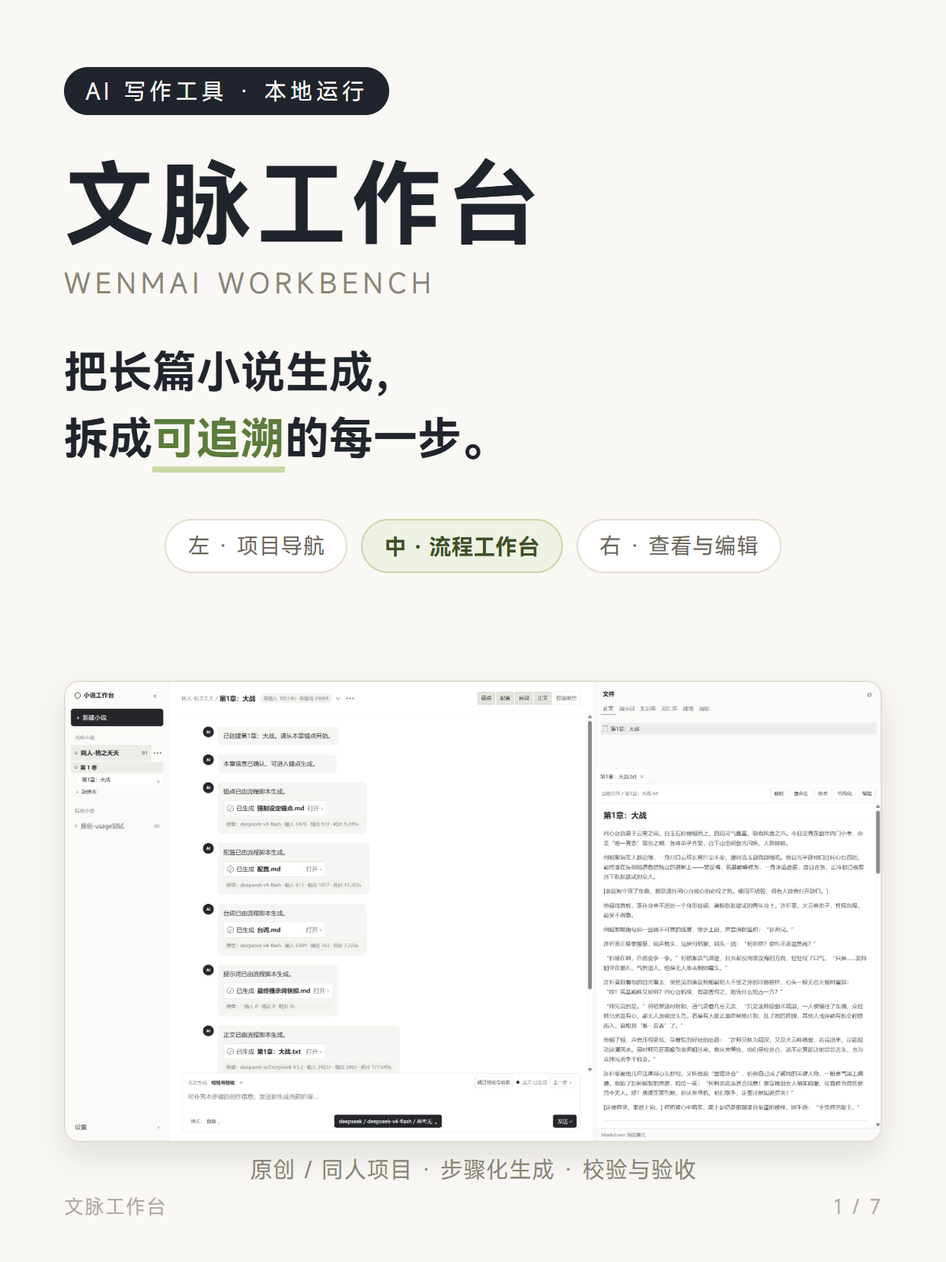
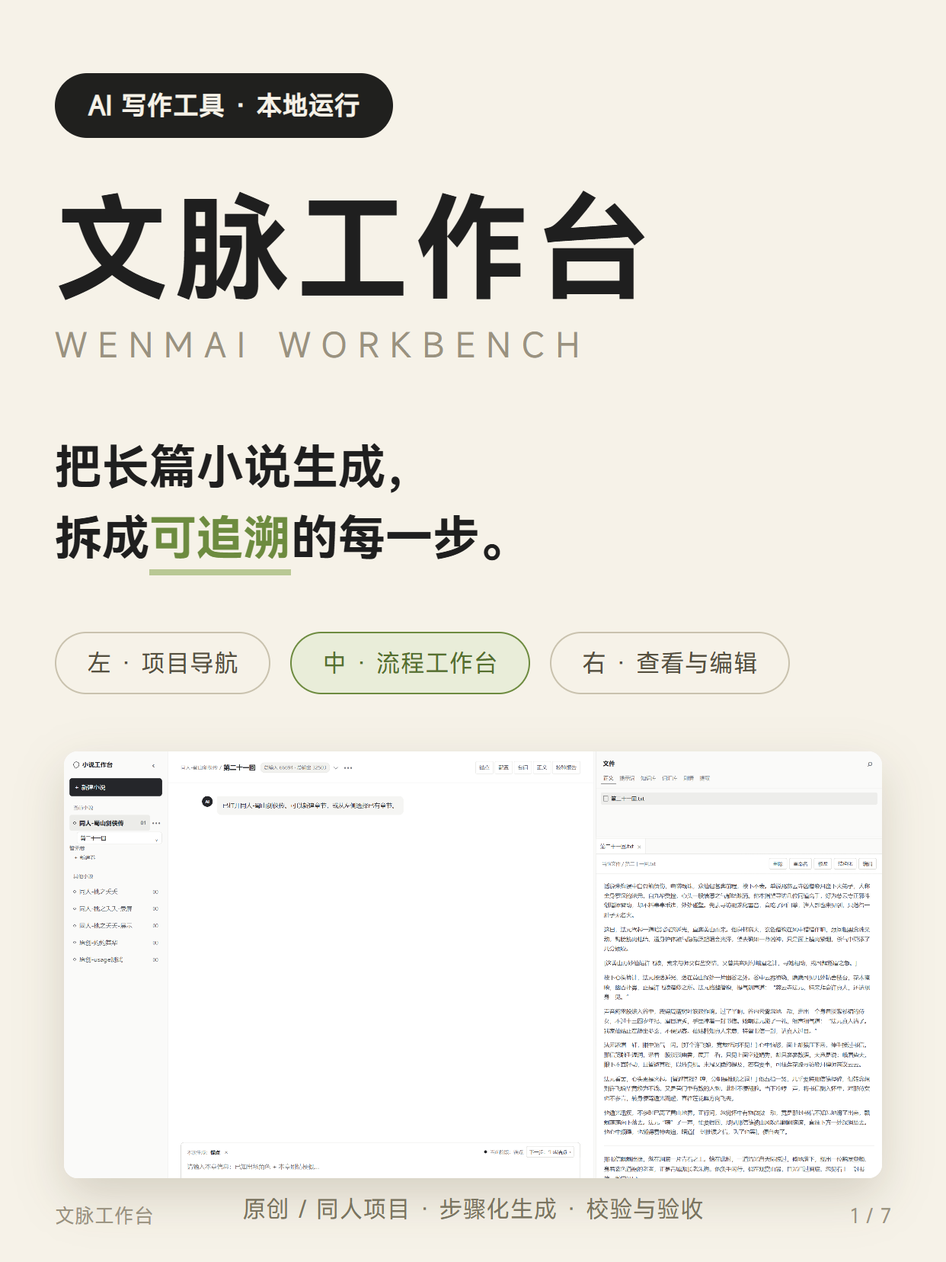
feat: 测试夹具改为蜀山片段；小红书卡片更新为蜀山演示截图
- 验证工作台验收.py：《逆鳞》资料整体替换为《蜀山剑侠传》同人夹具（角色/初始化/章节输入与全流程断言）
- 文风评分 bench 脚本：中性化旧角色名引用
- 小红书卡片 卡1/4/5：嵌入图更换为蜀山第二十一回真实产物截图，附卡片源码 _cards.html 与渲染脚本
- 删除旧版逆鳞验收报告

diff --git a/portfolio/小红书卡片/_cards.html b/portfolio/小红书卡片/_cards.html
@@ -1,0 +1,78 @@
+<!DOCTYPE html>
+<html lang="zh-CN">
+<head>
+<meta charset="UTF-8">
+<style>
+  @font-face { font-family: 'HSans'; src: url('file:///D:/求职/作品集/素材/fonts/HarmonyOS-Sans-SC-Bold.ttf'); font-weight: 700; }
+  @font-face { font-family: 'MiSans'; src: url('file:///D:/求职/作品集/素材/fonts/MiSans-Regular.ttf'); font-weight: 400; }
+  * { margin: 0; padding: 0; box-sizing: border-box; }
+  body { background: #888; font-family: 'MiSans', sans-serif; }
+  .card {
+    width: 1242px; height: 1656px; background: #F6F2E8; position: relative;
+    overflow: hidden; margin: 20px auto; color: #1F1F1F;
+  }
+  .footer { position: absolute; bottom: 44px; left: 72px; right: 72px; display: flex; justify-content: space-between; font-size: 26px; color: #9A927F; }
+  .pill-dark { display: inline-block; background: #20201E; color: #F6F2E8; border-radius: 999px; padding: 20px 44px; font-size: 34px; font-weight: 700; }
+  .green-bar { display: inline-block; width: 16px; height: 66px; background: #6D8B3F; border-radius: 8px; vertical-align: -6px; }
+  .h-title { font-family: 'HSans', sans-serif; font-size: 78px; font-weight: 700; letter-spacing: 2px; }
+  .h-sub { font-size: 32px; color: #8F8874; margin-top: 18px; }
+  .shot { border-radius: 18px; box-shadow: 0 24px 60px rgba(60,50,20,.18); object-fit: cover; object-position: left top; background: #fff; }
+  .cap { font-size: 31px; color: #7A7460; text-align: center; }
+  .cap b { color: #4A4436; font-weight: 400; }
+</style>
+</head>
+<body>
+
+<!-- ======================= 卡 1：封面 ======================= -->
+<div class="card" id="card1">
+  <div style="padding: 96px 72px 0;">
+    <span class="pill-dark">AI 写作工具 · 本地运行</span>
+    <div style="font-family:'HSans',sans-serif; font-size: 150px; font-weight: 700; letter-spacing: 8px; margin-top: 66px; line-height: 1;">文脉工作台</div>
+    <div style="font-size: 44px; letter-spacing: 14px; color: #9A927F; margin-top: 26px;">WENMAI WORKBENCH</div>
+    <div style="font-family:'HSans',sans-serif; font-size: 62px; font-weight: 700; line-height: 1.5; margin-top: 84px;">
+      把长篇小说生成，<br>拆成<span style="color:#6D8B3F; border-bottom: 8px solid #B9C894; padding-bottom: 2px;">可追溯</span>的每一步。
+    </div>
+    <div style="margin-top: 78px; display: flex; gap: 26px;">
+      <span style="border: 2px solid #C9C2AE; border-radius: 999px; padding: 18px 40px; font-size: 32px; color: #55503F;">左 · 项目导航</span>
+      <span style="border: 2px solid #6D8B3F; background: #E9EDD9; border-radius: 999px; padding: 18px 40px; font-size: 32px; color: #55702F;">中 · 流程工作台</span>
+      <span style="border: 2px solid #C9C2AE; border-radius: 999px; padding: 18px 40px; font-size: 32px; color: #55503F;">右 · 查看与编辑</span>
+    </div>
+  </div>
+  <img class="shot" src="file:///D:/求职/项目/wenmai-workbench/_shots/xhs/cover-app.png"
+       style="position:absolute; left: 84px; right: 84px; top: 986px; width: 1074px; height: 560px;">
+  <div class="cap" style="position:absolute; left:0; right:0; top: 1566px;">原创 / 同人项目 · 步骤化生成 · 校验与验收</div>
+  <div class="footer"><span>文脉工作台</span><span>1 / 7</span></div>
+</div>
+
+<!-- ======================= 卡 4：界面预览 · 流程 ======================= -->
+<div class="card" id="card4">
+  <div style="padding: 100px 72px 0;">
+    <span class="green-bar"></span><span class="h-title">界面预览 · 流程</span>
+    <div class="h-sub">锚点 → 配置 → 台词 → 提示词快照 → 正文</div>
+  </div>
+  <img class="shot" src="file:///D:/求职/项目/wenmai-workbench/_shots/xhs/anchor.png"
+       style="position:absolute; left: 96px; top: 320px; width: 1050px; height: 566px;">
+  <div class="cap" style="position:absolute; left:0; right:0; top: 916px;">章节流程：每一步产物<b>落盘</b>，随时回看与撤回</div>
+  <img class="shot" src="file:///D:/求职/项目/wenmai-workbench/_shots/xhs/new-project.png"
+       style="position:absolute; left: 96px; top: 1000px; width: 1050px; height: 530px;">
+  <div class="cap" style="position:absolute; left:0; right:0; top: 1552px;">新建小说：<b>原创 / 同人</b>两种类型，本地文件夹即项目</div>
+  <div class="footer"><span>文脉工作台</span><span>4 / 7</span></div>
+</div>
+
+<!-- ======================= 卡 5：界面预览 · 资产与校验 ======================= -->
+<div class="card" id="card5">
+  <div style="padding: 100px 72px 0;">
+    <span class="green-bar"></span><span class="h-title">界面预览 · 资产与校验</span>
+    <div class="h-sub">设定可检索，质量有验收</div>
+  </div>
+  <img class="shot" src="file:///D:/求职/项目/wenmai-workbench/_shots/xhs/worldview.png"
+       style="position:absolute; left: 96px; top: 320px; width: 1050px; height: 566px;">
+  <div class="cap" style="position:absolute; left:0; right:0; top: 916px;">知识库：世界观、角色卡、剧情集中管理，随取随用</div>
+  <img class="shot" src="file:///D:/求职/项目/wenmai-workbench/_shots/xhs/validate.png"
+       style="position:absolute; left: 96px; top: 1000px; width: 1050px; height: 530px;">
+  <div class="cap" style="position:absolute; left:0; right:0; top: 1552px;">校验报告：锚点落实 / 设定一致 / 剧情连贯 / 文风表达逐项通过</div>
+  <div class="footer"><span>文脉工作台</span><span>5 / 7</span></div>
+</div>
+
+</body>
+</html>

diff --git a/_take_shots.js b/_take_shots.js
@@ -1,0 +1,57 @@
+const path = require('path');
+let chromium;
+try { chromium = require('D:/求职/简历/工具/node_modules/playwright').chromium; }
+catch { chromium = require('playwright').chromium; }
+
+const OUT = 'D:/求职/项目/wenmai-workbench/_shots';
+const fs = require('fs');
+fs.mkdirSync(OUT, { recursive: true });
+
+(async () => {
+  let browser;
+  try { browser = await chromium.launch({ channel: 'chrome', headless: true }); }
+  catch { browser = await chromium.launch({ headless: true }); }
+  const page = await browser.newPage({ viewport: { width: 1920, height: 1080 } });
+  await page.goto('http://127.0.0.1:4173', { waitUntil: 'load', timeout: 30000 });
+  await page.waitForTimeout(1500);
+
+  // 打开项目
+  await page.click('text=同人-蜀山剑侠传');
+  await page.waitForTimeout(2500);
+  await page.screenshot({ path: path.join(OUT, '01-工作流总览.png') });
+  console.log('shot 01 done');
+
+  // 提示词 tab → 校验报告
+  try {
+    await page.click('text=提示词', { timeout: 3000 });
+    await page.waitForTimeout(800);
+    await page.screenshot({ path: path.join(OUT, '02-提示词文件列表.png') });
+    await page.click('text=校验报告.md', { timeout: 5000 });
+    await page.waitForTimeout(1200);
+    await page.screenshot({ path: path.join(OUT, '03-校验报告.png') });
+    console.log('shot 03 done');
+  } catch (e) { console.log('校验报告截图失败:', e.message.slice(0, 120)); }
+
+  // 正文 tab → 第二十一回
+  try {
+    await page.click('text=正文', { timeout: 3000 });
+    await page.waitForTimeout(800);
+    await page.click('text=第二十一回.txt', { timeout: 5000 });
+    await page.waitForTimeout(1200);
+    await page.screenshot({ path: path.join(OUT, '04-正文.png') });
+    console.log('shot 04 done');
+  } catch (e) { console.log('正文截图失败:', e.message.slice(0, 120)); }
+
+  // 知识库 tab → 角色名单
+  try {
+    await page.click('text=知识库', { timeout: 3000 });
+    await page.waitForTimeout(800);
+    await page.click('text=角色名单.md', { timeout: 5000 });
+    await page.waitForTimeout(1200);
+    await page.screenshot({ path: path.join(OUT, '05-角色名单.png') });
+    console.log('shot 05 done');
+  } catch (e) { console.log('角色名单截图失败:', e.message.slice(0, 120)); }
+
+  await browser.close();
+  console.log('all done');
+})();

diff --git a/_take_xhs_shots.js b/_take_xhs_shots.js
@@ -1,0 +1,55 @@
+const path = require('path');
+const fs = require('fs');
+const { chromium } = require('D:/求职/简历/工具/node_modules/playwright');
+
+const OUT = 'D:/求职/项目/wenmai-workbench/_shots/xhs';
+fs.mkdirSync(OUT, { recursive: true });
+
+(async () => {
+  let browser;
+  try { browser = await chromium.launch({ channel: 'chrome', headless: true }); }
+  catch { browser = await chromium.launch({ headless: true }); }
+  const page = await browser.newPage({ viewport: { width: 1920, height: 1080 }, deviceScaleFactor: 1.5 });
+  await page.goto('http://127.0.0.1:4173', { waitUntil: 'load', timeout: 30000 });
+  await page.waitForTimeout(1500);
+  await page.click('text=同人-蜀山剑侠传');
+  await page.waitForTimeout(2000);
+
+  async function shotTab(tab, file, out, extra = 0) {
+    try {
+      await page.click(`text=${tab}`, { timeout: 3000 });
+      await page.waitForTimeout(600);
+      await page.click(`text=${file}`, { timeout: 5000 });
+      await page.waitForTimeout(1200 + extra);
+      await page.screenshot({ path: path.join(OUT, out) });
+      console.log('done', out);
+    } catch (e) { console.log('skip', out, e.message.slice(0, 80)); }
+  }
+
+  // 覆盖主视觉：正文打开 + 侧栏章节
+  await shotTab('正文', '第二十一回.txt', 'cover-app.png', 500);
+  // 提示词：锚点 / 台词 / 校验报告
+  await shotTab('提示词', '强制设定锚点.md', 'anchor.png');
+  await shotTab('提示词', '台词.md', 'dialogue.png');
+  await shotTab('提示词', '校验报告.md', 'validate.png');
+  // 知识库：角色名单 / 世界观
+  await shotTab('知识库', '角色名单.md', 'roster.png');
+  await shotTab('知识库', '世界观.md', 'worldview.png');
+  // 词汇库：专属词库
+  await shotTab('词汇库', '专属词库.md', 'vocab.png');
+  // 提取：原文风格
+  await shotTab('提取', '原文风格.md', 'style.png');
+
+  // 新建小说弹窗
+  try {
+    await page.click('text=新建小说', { timeout: 3000 });
+    await page.waitForTimeout(800);
+    await page.screenshot({ path: path.join(OUT, 'new-project.png') });
+    console.log('done new-project.png');
+    await page.keyboard.press('Escape');
+    await page.waitForTimeout(500);
+  } catch (e) { console.log('skip new-project', e.message.slice(0, 80)); }
+
+  await browser.close();
+  console.log('all done');
+})();

diff --git a/工作流脚本/文风评分/scripts/bench/compare-custom.ts b/工作流脚本/文风评分/scripts/bench/compare-custom.ts
@@ -1,13 +1,13 @@
 /**
  * 临时对比脚本：用 InkFlow 自己的 Slop 文风检测器，
- * 对《超凡都市407》第384章 与 白釉生成文本 分别打分。
+ * 对《超凡都市407》第384章 与 待比对的生成文本 分别打分。
  */
 import fs from "node:fs";
 import { fullSlopScan, summarizeReport } from "../../src/services/checker/slop-detector";
 import type { SlopReport } from "../../src/services/checker/slop-rules";
 
 const SRC = "D:\\novel apk\\训练文本\\超凡都市407.txt";
-const GEN = "D:\\novel apk\\训练文本\\测试生成_白釉_第1章大婚_风格版_v3_扩写.txt";
+const GEN = "D:\\novel apk\\训练文本\\你的生成文本.txt";
 const OUT = "D:\\novel apk\\训练文本\\Inkflow文风检测_原著384_vs_生成.txt";
 
 const src = fs.readFileSync(SRC, "utf-8");
@@ -49,7 +49,7 @@ function make(report: SlopReport) {
 const result = {
   engine: "InkFlow fullSlopScan (7层 Slop 检测, 0-10分, 越高越好)",
   original: { name: "超凡都市407_第384章", chars: chap.length, report: make(fullSlopScan(chap)) },
-  generated: { name: "白釉_第1章_风格版v3扩写", chars: gen.length, report: make(fullSlopScan(gen)) },
+  generated: { name: "生成文本_风格版v3扩写", chars: gen.length, report: make(fullSlopScan(gen)) },
 };
 
 fs.writeFileSync(OUT, JSON.stringify(result, null, 2), "utf-8");

diff --git a/工作流脚本/文风评分/scripts/bench/compare-multi.ts b/工作流脚本/文风评分/scripts/bench/compare-multi.ts
@@ -1,12 +1,12 @@
 /**
- * 临时对比脚本：用 InkFlow Slop 检测器扫描多个原著章节 + 白釉生成文本。
+ * 临时对比脚本：用 InkFlow Slop 检测器扫描多个原著章节 + 待比对的生成文本。
  */
 import fs from "node:fs";
 import { fullSlopScan, summarizeReport } from "../../src/services/checker/slop-detector";
 import type { SlopReport } from "../../src/services/checker/slop-rules";
 
 const SRC = "D:\\novel apk\\训练文本\\超凡都市407.txt";
-const GEN = "D:\\novel apk\\训练文本\\测试生成_白釉_第1章大婚_风格版_v3_扩写.txt";
+const GEN = "D:\\novel apk\\训练文本\\你的生成文本.txt";
 const OUT = "D:\\novel apk\\训练文本\\Inkflow文风检测_多章对比.txt";
 
 const src = fs.readFileSync(SRC, "utf-8");
@@ -73,7 +73,7 @@ function stats(nums: number[]) {
 const result = {
   engine: "InkFlow fullSlopScan（0-10，越高越干净）",
   generated: {
-    name: "白釉_第1章_风格版v3扩写",
+    name: "生成文本_风格版v3扩写",
     chars: gen.length,
     ...genSummary,
   },

diff --git a/portfolio/小红书卡片/_render_cards.js b/portfolio/小红书卡片/_render_cards.js
@@ -1,0 +1,15 @@
+const path = require('path');
+const { chromium } = require('D:/求职/简历/工具/node_modules/playwright');
+
+(async () => {
+  const browser = await chromium.launch({ channel: 'chrome', headless: true });
+  const page = await browser.newPage({ viewport: { width: 1400, height: 1800 }, deviceScaleFactor: 1 });
+  await page.goto('file:///D:/求职/项目/wenmai-workbench/portfolio/小红书卡片/_cards.html', { waitUntil: 'load', timeout: 30000 });
+  await page.waitForTimeout(2500); // 等字体与图片
+  for (const id of ['card1', 'card4', 'card5']) {
+    const el = await page.$('#' + id);
+    await el.screenshot({ path: `D:/求职/项目/wenmai-workbench/portfolio/小红书卡片/新-${id}.png` });
+    console.log('rendered', id);
+  }
+  await browser.close();
+})();

diff --git a/工作流脚本/验证工作台验收.py b/工作流脚本/验证工作台验收.py
@@ -11,8 +11,8 @@
     python 验证工作台验收.py
     python 验证工作台验收.py --live-model
 
---live-model 会用本文件内的《逆鳞》测试资料真实调用已配置的模型，产生并
-删除两个“*-验收-逆鳞-<随机串>”临时项目。仅在需要验收真实 API、模型输出和
+--live-model 会用本文件内的《蜀山》测试资料真实调用已配置的模型，产生并
+删除两个“*-验收-蜀山-<随机串>”临时项目。仅在需要验收真实 API、模型输出和
 全流程产物时使用。
 
 尚未验收：校验“通过”后的资产增量更新。当前前端只有提示文案，后端尚无对应
@@ -40,19 +40,19 @@ APP = WEB / "app.js"
 SERVER = WEB / "server.mjs"
 BASE_URL = "http://127.0.0.1:4173"
 
-SOURCE_TEXT = """白釉：女主；狐族千金，当年逃婚，后为正道仙子，今为救子回妖族取真龙之血；假身份狐族流落孤女、少年侍女近卫
-敖玦：少年；妖皇血脉，试炼获胜者；称白釉“釉儿”；以本命逆鳞与白釉交易半份精血
-敖苍：妖皇（蛟族）
-敖曜：大皇子（嫡长子），发动政变
-谢玄珩：正道魁首，白釉丈夫；与白釉原定若少年不肯交血则强取，今日现身
-鼋戎：反叛大臣，大势已去后倒戈擒下谢玄珩将功赎罪
-归藏：妖皇忠直老臣，趁机劝降叛臣
+SOURCE_TEXT = """英琼：女主；前明忠良李宁之女，孝行感天，拜入峨眉仙师门下学剑
+李宁：英琼之父；前明忠良之后，携女避祸入蜀，与周淳结伴隐居
+周淳：侠士；李宁故友，同隐蜀中，后亦归入仙门
+赵燕儿：少年；别母从师，拜入峨眉门下
+周轻云：峨眉女弟子；奉命在辟邪村学道，兼司传讯
+法元：金身罗汉；慈云寺请来的异派凶僧，四处搬兵欲与峨眉斗剑
+朱梅：青城派长老；道法高深，与峨眉交好
 """
 
-INITIALIZATION = """女主白釉表面是闻名天下的正道仙子，实为当年逃婚的狐族千金。她嫁给正道魁首谢玄珩后，儿子被害留下隐疾，十六年未解；唯一续命希望是真龙之血，只有妖皇敖苍能赏赐。白釉回妖族途中救下遭暗杀的妖皇血脉少年敖玦，假扮他的狐族流落孤女侍女近卫。二人约定：白釉助他赢下妖皇试炼，事成取半份真龙精血；敖玦以本命逆鳞抵押。二人九死一生赢下试炼，妖皇要求二人成婚，大婚当天赐下真龙精血。
-角色：白釉是狐族千金、正道仙子、谢玄珩之妻、敖玦侍女近卫；敖玦是试炼获胜者、交易同盟；敖苍是蛟族妖皇；敖曜将发动政变；鼋戎会倒戈；归藏劝降叛臣。真龙精血是白釉救子关键，本命逆鳞仍在白釉手中，嫁衣是大婚当天所穿。"""
+INITIALIZATION = """前明忠良之后李宁携女英琼避祸入蜀，与侠士周淳结伴隐居。英琼孝行感天，机缘拜入峨眉仙师门下习剑；赵燕儿别母从师，周轻云在辟邪村学道兼司传讯。峨眉群仙广收少年弟子，与慈云寺凶僧一派冲突渐深：金身罗汉法元四处搬兵，扬言要与峨眉斗剑，正邪大战一触即发。
+角色：英琼是李宁之女、峨眉门下少年剑仙；周淳是李宁故友、侠士；赵燕儿与周轻云同属峨眉门下；法元是慈云寺请来的异派凶僧，正邪不两立；朱梅是青城派长老，与峨眉交好。"""
 
-CHAPTER_INPUT = """大婚当天，披着嫁衣的白釉陪敖玦领赏，妖皇敖苍赐下真龙精血。敖曜伙同大臣逼宫，白釉救下危在旦夕的敖玦；谢玄珩现身，明确要取敖苍之命。敖苍认定叛军勾结正道，与谢玄珩缠斗；归藏劝降，鼋戎在局势逆转时倒戈。白釉安置敖玦后苦战。敖玦喝下整份真龙精血，实力大增，击杀敖曜；谢玄珩逃走时被敖苍和鼋戎擒住。结尾白釉捏着敖玦的逆鳞，震惊他没有留下约定的半份精血，救子计划落空。"""
+CHAPTER_INPUT = """英琼辞别父亲李宁，随周淳入蜀山拜师，途中夜宿古庙，遇法元门下妖人拦路截杀试探；赵燕儿仗剑相助，二人合力击退妖人。周轻云奉命传讯：仙师已在山上等候，慈云寺之约渐近。法元现身冷笑立约，扬言斗剑之期已定。结尾英琼在庙后清泉边练剑，剑尖忽凝一道异光，周淳暗惊此女剑缘深厚。"""
 
 
 class Check:
@@ -124,9 +124,9 @@ def create_project(check: Check, kind: str, title: str) -> str:
 
 def upload_source(check: Check, project: str) -> None:
     content = base64.b64encode(SOURCE_TEXT.encode("utf-8")).decode("ascii")
-    status, payload = request("POST", "/api/upload", {"project": project, "name": "逆鳞原著.txt", "data": f"data:text/plain;base64,{content}"})
-    check.require(status == 201 and payload.get("path") == "原著/逆鳞原著.txt", "同人原著上传端点")
-    check.require("原著/逆鳞原著.txt" in flat_paths(project_tree(project)), "上传原著出现在项目树")
+    status, payload = request("POST", "/api/upload", {"project": project, "name": "蜀山原著.txt", "data": f"data:text/plain;base64,{content}"})
+    check.require(status == 201 and payload.get("path") == "原著/蜀山原著.txt", "同人原著上传端点")
+    check.require("原著/蜀山原著.txt" in flat_paths(project_tree(project)), "上传原著出现在项目树")
 
 
 def delete_project(check: Check, project: str) -> None:
@@ -141,42 +141,42 @@ def run_live_workflow(check: Check, project: str, fan: bool) -> None:
     def live_request(path: str, body: dict[str, Any]) -> tuple[int, dict[str, Any]]:
         return request("POST", path, body, timeout_seconds=660)
 
-    status, result = live_request("/api/project-brief/assess", {"project": project, "content": "白釉为救隐疾儿子回妖族，与少年敖玦交易真龙精血，在大婚政变中面临约定破裂。"})
+    status, result = live_request("/api/project-brief/assess", {"project": project, "content": "前明忠良李宁携女英琼入蜀避祸，英琼拜入峨眉学剑，法元搬兵欲斗剑，正邪大战一触即发。"})
     check.require(status == 200 and not result.get("missing"), f"模型判别小说资料（HTTP {status}，响应：{json.dumps(result, ensure_ascii=True)}）")
     material = "# 初始化资料\n\n" + INITIALIZATION + "\n"
     status, _ = request("PUT", "/api/file", {"project": project, "path": "运行记录/初始化资料.md", "content": material})
     check.require(status == 200, "保存初始化原始输入")
     tasks: list[tuple[str, dict[str, Any]]] = []
     if fan:
-        tasks += [(name, {"source": "逆鳞原著.txt"}) for name in ("text_stats", "word_frequency", "style", "positive_vocabulary", "exclusive_vocabulary")]
+        tasks += [(name, {"source": "蜀山原著.txt"}) for name in ("text_stats", "word_frequency", "style", "positive_vocabulary", "exclusive_vocabulary")]
     tasks += [
         ("compile_intro", {"summary": result["summary"], "tags": result["tags"]}),
-        ("generate_worldview", {"genre": "东方玄幻", "premise": "白釉为救子回妖族寻真龙精血"}),
-        ("compile_style", {"tone": "紧张克制、古风玄幻"}),
-        ("generate_character", {"name": "白釉", "identity": "狐族千金、正道仙子"}),
-        ("generate_character", {"name": "敖玦", "identity": "妖皇血脉少年"}),
-        ("compile_relation", {"character_a": "白釉", "character_b": "敖玦", "relationship": "真龙精血交易同盟"}),
-        ("compile_plot", {"kind": "book", "protagonist": "白釉", "mainline": "救子取血与逆鳞交易"}),
-        ("compile_volume", {"volume": "第1卷：逆鳞", "protagonist": "白釉", "mainline": "妖皇试炼至大婚政变"}),
+        ("generate_worldview", {"genre": "古典仙侠", "premise": "峨眉门下少年学剑，正邪斗剑将起"}),
+        ("compile_style", {"tone": "还珠楼主式古典仙侠，文白相间，瑰丽奇绝"}),
+        ("generate_character", {"name": "英琼", "identity": "李宁之女、峨眉门下少年剑仙"}),
+        ("generate_character", {"name": "赵燕儿", "identity": "别母从师的峨眉少年"}),
+        ("compile_relation", {"character_a": "英琼", "character_b": "赵燕儿", "relationship": "同门师兄妹，古庙并肩退敌"}),
+        ("compile_plot", {"kind": "book", "protagonist": "英琼", "mainline": "拜师学剑与慈云寺斗剑之约"}),
+        ("compile_volume", {"volume": "第1卷：峨眉学剑", "protagonist": "英琼", "mainline": "避祸入蜀至慈云寺斗剑之约"}),
         ("compile_ledger", {"entries": []}),
     ]
     for task, payload in tasks:
         status, result = live_request("/api/workflow/run", {"task": task, "project": project, "inputMode": "structured", "inputComplete": True, "input": payload})
         check.require(status == 200 and result.get("outputs"), f"模型初始化：{task}（HTTP {status}，响应：{json.dumps(result, ensure_ascii=True)}）")
 
-    status, result = live_request("/api/chapter-brief/assess", {"project": project, "chapter": "第1章：逆鳞", "content": CHAPTER_INPUT})
+    status, result = live_request("/api/chapter-brief/assess", {"project": project, "chapter": "第1章：古庙惊变", "content": CHAPTER_INPUT})
     check.require(status == 200 and not result.get("missing"), "模型判别首章输入")
     chapter_tasks = [
-        ("compile_anchor", {"characters": result["characters"], "core_event": result["core_event"], "information_boundary": "白釉与谢玄珩原计划强取精血不可直接公开", "foreshadowing": "逆鳞仍握在白釉手中", "hook": "半份精血约定破裂"}),
-        ("compile_config", {"person": "第三人称", "information": ["政变", "真龙精血", "逆鳞交易"]}),
-        ("compile_dialogue", {"dialogues": [{"character": "敖玦", "line": "釉儿，别过来。"}]}),
-        ("compile_snapshot", {"characters": ["白釉", "敖玦", "敖苍", "敖曜", "谢玄珩"], "previous_ending": "大婚领赏，政变骤起。"}),
+        ("compile_anchor", {"characters": result["characters"], "core_event": result["core_event"], "information_boundary": "慈云寺斗剑的确切日期与峨眉布防不可让异派知晓", "foreshadowing": "英琼剑尖凝异光，暗示剑缘深厚", "hook": "斗剑之期已定，慈云寺之约在即"}),
+        ("compile_config", {"person": "第三人称", "information": ["古庙遇妖", "法元立约", "异光凝剑"]}),
+        ("compile_dialogue", {"dialogues": [{"character": "法元", "line": "慈云寺斗剑之期已定，叫你师门早作准备。"}]}),
+        ("compile_snapshot", {"characters": ["英琼", "李宁", "周淳", "赵燕儿", "法元"], "previous_ending": "古庙夜宿，妖人败退，周淳暗自戒备。"}),
         ("generate_prose", {}),
         ("validate", {}),
         ("rewrite_prose", {"instruction": "保持全部既定事实，提升战斗节奏与结尾悬念。"}),
     ]
     for task, payload in chapter_tasks:
-        status, response = live_request("/api/workflow/run", {"task": task, "project": project, "inputMode": "structured", "inputComplete": True, "input": {"chapter": "第1章：逆鳞", **payload}})
+        status, response = live_request("/api/workflow/run", {"task": task, "project": project, "inputMode": "structured", "inputComplete": True, "input": {"chapter": "第1章：古庙惊变", **payload}})
         check.require(status == 200 and response.get("outputs"), f"模型章节流程：{task}（HTTP {status}，响应：{json.dumps(response, ensure_ascii=True)}）")
 
 
@@ -187,8 +187,8 @@ def main() -> int:
     args = parser.parse_args()
     check = Check()
     suffix = uuid.uuid4().hex[:8]
-    fan = f"同人-验收-逆鳞-{suffix}"
-    original = f"原创-验收-逆鳞-{suffix}"
+    fan = f"同人-验收-蜀山-{suffix}"
+    original = f"原创-验收-蜀山-{suffix}"
     created: list[str] = []
     try:
         status, _ = request("GET", "/api/projects")
@@ -196,14 +196,14 @@ def main() -> int:
         check.require(SERVER.is_file() and APP.is_file(), "工作台前端与服务文件存在")
         verify_frontend_contract(check)
 
-        fan = create_project(check, "同人", f"验收-逆鳞-{suffix}")
+        fan = create_project(check, "同人", f"验收-蜀山-{suffix}")
         created.append(fan)
         upload_source(check, fan)
         status, listing = request("GET", "/api/projects")
         check.require(fan in listing["projects"], "新建同人项目进入项目列表")
 
         # 前端创建成功后会 activate(project.id)；这里用第二个项目验证列表切换所需的数据前提。
-        original = create_project(check, "原创", f"验收-逆鳞-{suffix}")
+        original = create_project(check, "原创", f"验收-蜀山-{suffix}")
         created.append(original)
         status, listing = request("GET", "/api/projects")
         check.require(fan in listing["projects"] and original in listing["projects"], "切换后两个项目均保留在列表")
